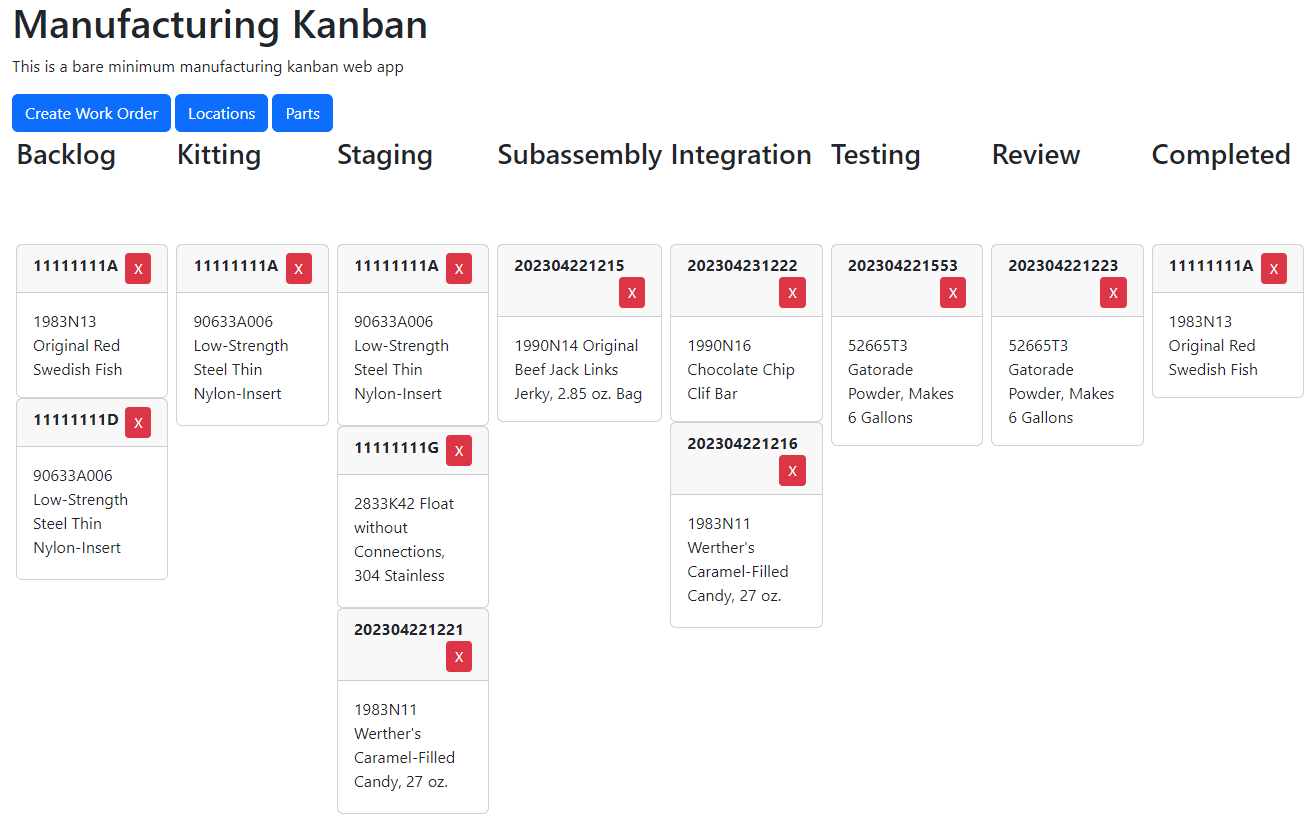
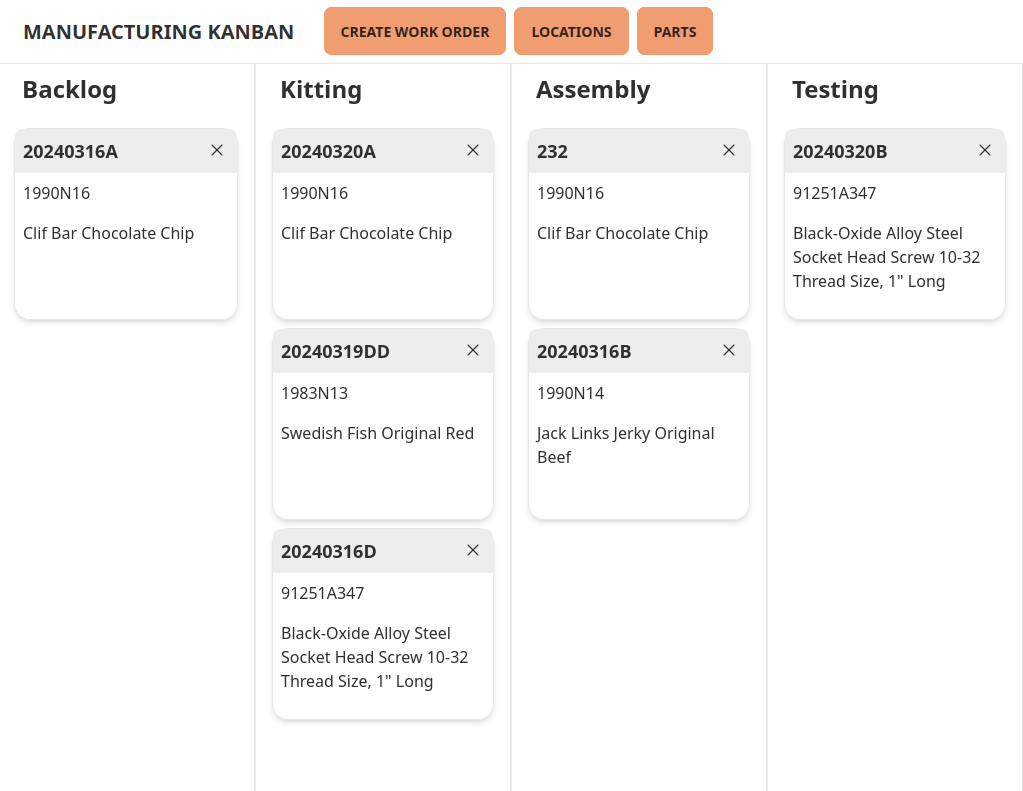
created demo mfg kanban blog
Revised previous blog post, updated card

diff --git a/site_content/markdown/blog/20240327 Demo Manufacturing Kanban Part 2.md b/site_content/markdown/blog/20240327 Demo Manufacturing Kanban Part 2.md
@@ -10,52 +10,124 @@ date_updated: 2024-03-27
 
 ## Overview
 
-The redevelopment actually was in multiple stages. There was an unreleased SvelteKit Django Rest Framework version which was never actually deployed
+I recreated my Demo Manufacturing Kanban project using all the knowledge I have gained since my original attempt in [Demo Manufacturing Kanban Part 1](/blog/20230715/). It is still a basic "kanban" or "andon" board, however, the entire stack has been improved. 
 
-This isn't really comparable considering how much more advanced this site is compared to the Django version.
+The site is now a SvelteKit frontend styled with DaisyUI, a tRPC backend querying the database with DrizzleORM and deployed on AWS using SST. Within this post, I'll describe my experience with the different libraries and packages used.
 
-Although, considering how fast I was able to create the Django site, it is pretty impressive how fast you can make stuff.
+Overall, I recommend the stack I used for this project.
 
-There is a system for creating pop up notifications which is pretty nice
-
-Continuing to use modals even though it probably makes more sense to just use new pages
-
-You can visit the site but the database is probably auto paused so you would need to referesh a few times
+### Links
+- https://demo.kanban.puffinsystems.com/
+	- Due to AWS Aurora Serverless v1 auto pause, it will take a few minutes and multiple refreshes before the site loads. It would be a waste of money to keep this database always active. 
+- https://github.com/magicalpuffin/Demo-Manufacturing-Kanban
 
 ## SvelteKit
 
-SvelteKit continues to be a great experience. 
+SvelteKit continues to be a great experience, everything just worked. I was most impressed by the `svelte/store` module. Using custom stores, it is possible to include business logic in the store. This allows you to share state and methods across components.
 
-The greatest discovery while using Svelte were Stores. It is possible to create custom stores, allowing you to directly include business logic. You could keep on
+Here is a snippet of the `locationStore`:
+```ts
+// packages/frontend/src/lib/stores/locationStore.ts
+// ...
+
+export const locationStore = createLocationStore();
+
+function createLocationStore() {
+	const { subscribe, set, update } = writable<locationSelectType[]>([]);
+
+	async function addLocation(newLocation: locationInsertType) {
+		try {
+			const data = await trpc.createLocation.mutate(newLocation);
+			update((n) => [...n, data[0]]);
+			toast.push(`Created location ${data[0].name}`);
+		} catch (error) {
+			if (isTRPCClientError(error)) {
+				toast.push(`${error.message}`);
+			} else {
+				toast.push('Failed to create location');
+			}
+		}
+	}
+	
+	// Additional methods here ...
+
+	return {
+		subscribe,
+		set,
+		reset: () => set([]),
+		add: addLocation,
+		update: updateLocation,
+		reorder,
+		remove
+	};
+}
+
+```
+
+In this example, I extended the standard `writeable` store to include a method called `addLocation`. This method creates the object in the database, adds the object to the store, and creates a toast notification. Instead of managing methods across different components and syncing database updates with state changes, it can all happen through a store.
+
+- https://kit.svelte.dev/docs/introduction
+- https://svelte.dev/docs/svelte-store
+
 ## DaisyUI
 
-DaisyUI is a component framework based on TailwindCSS. This made it faster to create components while still giving customizability. Everything is still just CSS which keeps things simple.
+DaisyUI is a component framework based on TailwindCSS classes and was much faster than styling components from scratch. I wasn't trying to create anything stylistically unique or innovative so the existing components from DaisyUI were more than enough. Not to mention that most custom components I created looked worse than components from DaisyUI. DaisyUI is based on TailwindCSS, which is just CSS, keeping things simple.
+
+- https://daisyui.com/
 
 ## SortableJS
 
-SortableJS was still the best JavaScript library I could find for creating the sorting effect. I was also already familiar with it.
+SortableJS was still the best JavaScript library I could find for creating the sorting effect. Svelte integrated nicely with SortableJS. It is possible to initialize SortableJS during `onMount` and update stores during the provided sorting events.
+
+- https://github.com/SortableJS/Sortable
 
 ## tRPC
 
-During development, I found it annoying how type safety was missing for HTTP fetch requests. SvelteKit provides some basic type safety with data from page loads, however, I couldn't find anything for clientside requests or requests to a backend. 
+During development, I found the type safety provided by TypeScript extremely useful. Simply knowing what type something is goes a long way towards figuring out what is going on. Unfortunately, the moment an HTTP requests is involved, you revert back to throwing objects around blindly. 
 
-Fortunately, tRPC exists. provides a TypeScript framework for RPC.
+It is worth noting that SvelteKit provides basic type safety when passing data using page load. However, this isn't available for client side requests or if your backend is separate. 
 
-tRPC makes things so much easier, however, it does make it more difficult to expose a REST API. However, the tradeoff is worth it, expecially if you are the only one accessing the API
+tRPC was the perfect solution for this problem and made creating backend API requests much easier. tRPC provides a TypeScript framework for RPC (Remote Procedure Call) and allows you to make HTTP requests like you are calling a function. I was using an API Gateway backend which was supported with a tRPC adapter. 
+
+However, there were a few minor downsides, primarily because tRPC isn't the same as an REST API. It was more difficult to interact with and debug in browser, for example, it isn't possible to just send a GET request with query parameters.
+
+- https://trpc.io/
+
 ## DrizzleORM
 
-DrizzleORM was a great experience. Missing proper error handling. It was disappointing that there it wasn't possible to have standard error types for basic issues such as duplicate items or delete cascades 
+DrizzleORM felt like the best and most fully featured TypeScript ORM available.
+
+When using DrizzleORM, the database schema is directly written in TypeScript and can be imported to other files like any other object in TypeScript. This is a much better development experience than PrismaORM (another popular TypeScript ORM), which uses its own custom syntax for database schema. 
+
+My main disappointment with DrizzleORM was the lackluster error handling. The database error is returned, however, there isn't much support available for classifying common errors such as duplicate item or delete cascade error.
+
+- https://orm.drizzle.team/docs/overview
+- https://github.com/drizzle-team/drizzle-orm/issues/376
+
 ## SST
 
-SST is used for serverless deployments to AWS. Provides a better interface than AWS CDK. After spending way too much time messing with intergrating with other AWS CDK resources, it ended up being much easier to just use resources as intended.
+SST provides a framework for deploying serverless applications using AWS CDK in a much more user friendly library. For this project, it provided easy to use constructs for creating the Lambda, API Gateway, and RDS instances. The provided `SvelteKitSite` construct also made it easy to package the SvelteKit frontend as an AWS Lambda. 
 
-The main custom resource was a bastion host to connect to the AWS RDS instance locally
+Important AWS Resources:
+- Lambda
+	- For tRPC backend
+	- For SvelteKit site
+- API Gateway
+	- For tRPC backend
+- RDS Aurora Serverless v1
+	- PostgreSQL database
+- EC2
+	- For bastion host
+- CloudFront
 
-Many of the issues faced when using SST were likely AWS CDK related. Deployments were slow, there seems to be slightly different behavior when using Live Lambda compared to using deployed Lambdas
+A nice feature of SST is how AWS CDK resources can be created within a stack. I used this to create a bastion host for connecting to the AWS RDS instance locally.
+
+There were a few downsides with using SST, however, I think many of them are AWS CDK related. Deployments are surprisingly slow and can't seem to be parallelized. There was slightly different behavior between using Live Lambda, developing locally and deployed instances. For example, queries were much slower in Live Lambda than when deployed, while auto pause felt slower when deployed than in Live Lambda. 
+
+- https://sst.dev/
 
 ## AWS
 
-The database used was a Auora Serverless v1 instance deployed using SST. The auto pause feature allows the database to was extremely useful considering this is demo project. 
+AWS isn't very user friendly but it is what it is I guess.
 
-It is quite annoying going from auto pause to actually running. The time it takes is enough to exceed 10 sec which is was the lambda time out. Also whenever people visit, they get an error because the server is off.
-
+The database used was an Aurora Serverless v1 instance deployed using SST. The database is configured to auto pause after 5 minutes, making it much cheaper considering  nobody uses my site. Unfortunately, it takes almost a minute to resume from auto pause, exceeding the 10 sec Lambda time out limit. Annoyingly, this means whenever people visit the site, they get an error until the database finishes resuming.

diff --git a/site_content/markdown/blog/20230715 Demo Manufacturing Kanban Part 1.md b/site_content/markdown/blog/20230715 Demo Manufacturing Kanban Part 1.md
@@ -9,51 +9,47 @@ date_updated: 2024-03-27
 *Screenshot of some cards in Demo Manufacturing Kanban*
 ## Overview
 
-This post will describe the original Django version of this project. I plan on remaking this project using Svelte and Django Rest Framework.
+**2024-03-28 UPDATE:** This post describes the original Django version of this project. See [Demo Manufacturing Kanban Part 2](/blog/20240327/) 
 
-The very first draft of this project was created in a few hours as quickly as possible. The idea was to create a custom kanban system similar to what is available with Jira and Smartsheets.
+I tried to create a "kanban" or "andon" board as quickly as possible. The end result was a Django and Htmx deployed to AWS Lambda using Zappa. The database was an sqlite database on AWS S3.
 
-Frontend and backend was created using Django and Htmx. This was deployed to AWS Lambda using Zappa. The database is an sqlite database on AWS S3.
-
-## Objective
-
-This project was created to test out how quickly Django could be used to create a basic web app.
-
-Looking back at my commits, this project was started on 2023-04-19 and completed on 2023-04-22. This project was rushed.
+### Links
+- https://github.com/magicalpuffin/Demo-Manufacturing-Kanban/tree/0.1.1-django
 
 ## Key Libraries and Packages
 
 ### Django
 
-Django is an extremely fast batteries included python web framework. If you are building a CRUD app and want a ORM, Django is probably the fastest option. However, if you plan building anything complicated for the frontend Django will become unmaintainable very quickly.
+Django is an easy to use, batteries included python web framework. For CRUD apps with an ORM, Django is probably the fastest option. However, anything complicated on the frontend will quickly become unmaintainable.
 
-Most other web frameworks (ex. Svelte) use JS and a component based system for the frontend. This allows them to be interactive and flexible. For Django and its Jinja templates to be comparable, janky JS or Htmx is required.
+Django isn't designed for interacting with JavaScript. Instead, it is clunky JavaScript in HTML using Jinja templates and  Htmx.
 
-However, everything on the backend is handled fairly well by Django. Perhaps that's why people care more about Django Rest Framework than Django.
+However, everything on the backend is handled fairly well by Django. This is likely why so many people recommend Django Rest Framework over just Django.
 
 ### Bootstrap
 
-Bootstrap is a CSS component library. Instead of having the user define all of the details and configure their own components such as with Tailwind, Bootstrap, just defines what all the components look like.
+Bootstrap is a CSS component library which defines what all the components look like and how they should behave.
 
-This makes it fast but inflexible. Everything always looks like a Bootstrap component. This is still probably the fastest way to get good looking CSS on a Django app, which was why I used it here.
+This makes it fast for development but inflexible. Everything always looks like a Bootstrap component. This is still probably the fastest way to get good looking CSS on a Django app.
 
 ### Htmx
 
 Htmx basically lets you do JS things such as HTTP requests in html. This is great for Django because you are able to request different endpoints and swap out sections of html using `hx-swap` and `hx-target`.
 
-This allowed me to make it feel like this was a single page app without a lot of JS. Although, every requrest still required the server to do the rendering.
+This allowed me to make it feel like this was a single page app without a lot of JS. Although, every request still required the server to do the rendering.
 
-### Sortable JS
+### SortableJS
 
-Sortable was the JS framework used to allow drag, drop and reordering of cards. I am actually kind of surprised this worked as well as it did.
+SortableJS was the JS framework used to allow drag, drop and reordering of cards. I am actually kind of surprised this worked as well as it did.
 
 Due to how Django works, this required some weird JS on the base template. After placing each card down, it Htmx is used to save the order of items to the database.
 
 ### Zappa
 
-Zappa makes it possible to deploying Django apps serverless on AWS. It does still seem a bit janky with most tutorials being incomplete. The best tutorial I found was:
+Zappa makes it possible to deploying Django apps serverless on AWS. It does still seem a bit clunky with most tutorials being incomplete. 
 
-https://romandc.com/zappa-django-guide/
+The best tutorial I found was:
+- https://romandc.com/zappa-django-guide/
 
 Zappa also does not fit in well within a stack. Other resources (ex. RDS and CloudFront) will need to be configured separately. Ideally you would be able to deploy the Django Lambda using AWS CDK.
 

diff --git a/site_content/markdown/card/Manufacturing Kanban.md b/site_content/markdown/card/Manufacturing Kanban.md
@@ -4,10 +4,10 @@ category: demo
 sequence: 2
 img_src: /static/content/images/card/demo_mfg_kanban.png
 github_url: https://github.com/magicalpuffin/Demo-Manufacturing-Kanban
-detail_url:
+detail_url: https://demo.kanban.puffinsystems.com/
 ---
-Basic manufacturing kanban board created as a single page app. Create parts, locations and workorders. Drag and drop to move workorders around.
+Basic manufacturing kanban board. Create parts, locations, and workorders. Drag and drop to move workorders around.
 
-django, sqlite3, sortable, lambda
+SvelteKit, DrizzleORM, tRPC, SortableJS, AWS Lambda
 
-[Read More](/blog/20230715/)
+[Read More](/blog/20240327/)
